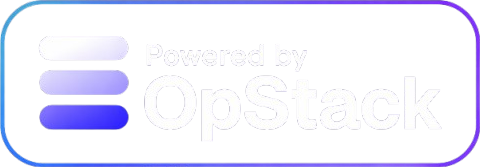
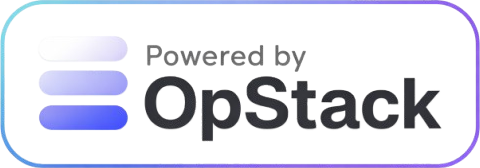
Switch to light mode with pale steel blue and muted amber

diff --git a/components/landing/ContactSection.tsx b/components/landing/ContactSection.tsx
@@ -62,7 +62,7 @@ export default function ContactSection() {
                 required
                 value={formData.name}
                 onChange={(e) => setFormData({ ...formData, name: e.target.value })}
-                className="w-full px-4 py-3 bg-track-card border-2 border-track-primary/30 text-track-foreground placeholder-track-muted-foreground focus:border-track-accent focus:outline-none transition-colors"
+                className="w-full px-4 py-3 bg-track-card border border-track-border text-track-foreground placeholder-track-muted-foreground focus:border-track-accent focus:outline-none transition-colors"
                 placeholder="Your name"
               />
             </div>
@@ -76,7 +76,7 @@ export default function ContactSection() {
                 required
                 value={formData.email}
                 onChange={(e) => setFormData({ ...formData, email: e.target.value })}
-                className="w-full px-4 py-3 bg-track-card border-2 border-track-primary/30 text-track-foreground placeholder-track-muted-foreground focus:border-track-accent focus:outline-none transition-colors"
+                className="w-full px-4 py-3 bg-track-card border border-track-border text-track-foreground placeholder-track-muted-foreground focus:border-track-accent focus:outline-none transition-colors"
                 placeholder="you@company.com"
               />
             </div>
@@ -91,7 +91,7 @@ export default function ContactSection() {
               id="company"
               value={formData.company}
               onChange={(e) => setFormData({ ...formData, company: e.target.value })}
-              className="w-full px-4 py-3 bg-track-card border-2 border-track-primary/30 text-track-foreground placeholder-track-muted-foreground focus:border-track-accent focus:outline-none transition-colors"
+              className="w-full px-4 py-3 bg-track-card border border-track-border text-track-foreground placeholder-track-muted-foreground focus:border-track-accent focus:outline-none transition-colors"
               placeholder="Your company name"
             />
           </div>
@@ -106,7 +106,7 @@ export default function ContactSection() {
               required
               value={formData.message}
               onChange={(e) => setFormData({ ...formData, message: e.target.value })}
-              className="w-full px-4 py-3 bg-track-card border-2 border-track-primary/30 text-track-foreground placeholder-track-muted-foreground focus:border-track-accent focus:outline-none transition-colors resize-none"
+              className="w-full px-4 py-3 bg-track-card border border-track-border text-track-foreground placeholder-track-muted-foreground focus:border-track-accent focus:outline-none transition-colors resize-none"
               placeholder="Tell us about your asset management needs..."
             />
           </div>
@@ -114,19 +114,19 @@ export default function ContactSection() {
           <button
             type="submit"
             disabled={status === 'loading'}
-            className="w-full px-8 py-4 bg-track-accent text-white font-semibold text-lg hover:bg-track-accent-light transition-colors disabled:opacity-50 disabled:cursor-not-allowed"
+            className="w-full px-8 py-4 bg-track-accent text-white font-semibold text-lg hover:bg-track-accent-dark transition-colors disabled:opacity-50 disabled:cursor-not-allowed"
           >
             {status === 'loading' ? 'Sending...' : 'Send Message'}
           </button>
 
           {status === 'success' && (
-            <p className="text-center text-green-400">
+            <p className="text-center text-green-600">
               Thank you for your message. We will be in touch soon.
             </p>
           )}
 
           {status === 'error' && (
-            <p className="text-center text-red-400">
+            <p className="text-center text-red-600">
               Something went wrong. Please email us directly at track@opstack.uk
             </p>
           )}
@@ -135,7 +135,7 @@ export default function ContactSection() {
         <div className="mt-12 text-center">
           <p className="text-track-muted-foreground">
             Prefer email? Contact us at{' '}
-            <a href="mailto:track@opstack.uk" className="text-track-accent hover:text-track-accent-light transition-colors">
+            <a href="mailto:track@opstack.uk" className="text-track-accent hover:text-track-accent-dark transition-colors">
               track@opstack.uk
             </a>
           </p>

diff --git a/components/landing/Navbar.tsx b/components/landing/Navbar.tsx
@@ -14,7 +14,7 @@ export default function Navbar() {
   ]
 
   return (
-    <nav className="fixed top-0 left-0 right-0 z-50 bg-track-background/95 backdrop-blur-sm border-b border-track-primary/20">
+    <nav className="fixed top-0 left-0 right-0 z-50 bg-track-background/95 backdrop-blur-sm border-b border-track-border">
       <div className="max-w-7xl mx-auto px-4 sm:px-6 lg:px-8">
         <div className="flex justify-between items-center h-16">
           <Link href="/" className="flex items-center gap-3">
@@ -40,7 +40,7 @@ export default function Navbar() {
             ))}
             <a
               href="#contact"
-              className="px-4 py-2 bg-track-accent text-white font-medium hover:bg-track-accent-light transition-colors"
+              className="px-4 py-2 bg-track-accent text-white font-medium hover:bg-track-accent-dark transition-colors"
             >
               Get Started
             </a>
@@ -62,7 +62,7 @@ export default function Navbar() {
         </div>
 
         {mobileMenuOpen && (
-          <div className="md:hidden py-4 border-t border-track-primary/20">
+          <div className="md:hidden py-4 border-t border-track-border">
             {navLinks.map((link) => (
               <a
                 key={link.name}
@@ -75,7 +75,7 @@ export default function Navbar() {
             ))}
             <a
               href="#contact"
-              className="block mt-4 px-4 py-2 bg-track-accent text-white font-medium text-center hover:bg-track-accent-light transition-colors"
+              className="block mt-4 px-4 py-2 bg-track-accent text-white font-medium text-center hover:bg-track-accent-dark transition-colors"
               onClick={() => setMobileMenuOpen(false)}
             >
               Get Started

diff --git a/tailwind.config.ts b/tailwind.config.ts
@@ -10,17 +10,18 @@ const config: Config = {
     extend: {
       colors: {
         track: {
-          primary: 'hsl(215, 45%, 45%)',
-          'primary-dark': 'hsl(215, 45%, 35%)',
-          'primary-light': 'hsl(215, 45%, 55%)',
-          accent: 'hsl(32, 95%, 52%)',
-          'accent-light': 'hsl(32, 95%, 62%)',
-          background: 'hsl(220, 40%, 8%)',
-          'background-light': 'hsl(220, 35%, 14%)',
-          card: 'hsl(220, 35%, 14%)',
-          foreground: 'hsl(0, 0%, 98%)',
-          'muted-foreground': 'hsl(215, 20%, 60%)',
-          muted: 'hsl(220, 30%, 18%)',
+          primary: 'hsl(215, 45%, 55%)',
+          'primary-dark': 'hsl(215, 50%, 45%)',
+          'primary-light': 'hsl(215, 40%, 65%)',
+          accent: 'hsl(38, 75%, 50%)',
+          'accent-dark': 'hsl(38, 80%, 42%)',
+          background: 'hsl(0, 0%, 100%)',
+          'background-alt': 'hsl(220, 20%, 97%)',
+          card: 'hsl(0, 0%, 100%)',
+          foreground: 'hsl(220, 25%, 18%)',
+          'muted-foreground': 'hsl(220, 15%, 50%)',
+          muted: 'hsl(220, 15%, 92%)',
+          border: 'hsl(220, 20%, 88%)',
         },
       },
       fontFamily: {

diff --git a/components/landing/UseCasesSection.tsx b/components/landing/UseCasesSection.tsx
@@ -19,7 +19,7 @@ const useCases = [
 
 export default function UseCasesSection() {
   return (
-    <section id="use-cases" className="py-20 px-4 sm:px-6 lg:px-8 bg-track-background-light">
+    <section id="use-cases" className="py-20 px-4 sm:px-6 lg:px-8 bg-track-background-alt">
       <div className="max-w-7xl mx-auto">
         <div className="text-center mb-16">
           <h2 className="text-3xl sm:text-4xl font-bold text-track-foreground mb-4">
@@ -34,8 +34,7 @@ export default function UseCasesSection() {
           {useCases.map((useCase) => (
             <div
               key={useCase.title}
-              className="group relative p-8 border-2 bg-track-card transition-all duration-300 hover:translate-y-[-4px]"
-              style={{ borderColor: 'hsl(215 45% 45% / 0.35)' }}
+              className="group relative p-8 border bg-track-card transition-all duration-300 hover:translate-y-[-4px] hover:shadow-lg border-track-border"
             >
               <div className="absolute left-0 top-0 bottom-0 w-1 bg-track-primary/40 group-hover:bg-track-accent transition-colors" />
 

diff --git a/components/landing/Footer.tsx b/components/landing/Footer.tsx
@@ -3,7 +3,7 @@ import Link from 'next/link'
 
 export default function Footer() {
   return (
-    <footer className="py-12 px-4 sm:px-6 lg:px-8 bg-track-muted border-t border-track-primary/20">
+    <footer className="py-12 px-4 sm:px-6 lg:px-8 bg-track-background-alt border-t border-track-border">
       <div className="max-w-7xl mx-auto">
         <div className="flex flex-col md:flex-row justify-between items-center gap-8">
           <div className="flex items-center gap-3">
@@ -55,7 +55,7 @@ export default function Footer() {
           </Link>
         </div>
 
-        <div className="mt-8 pt-8 border-t border-track-primary/20 text-center">
+        <div className="mt-8 pt-8 border-t border-track-border text-center">
           <p className="text-sm text-track-muted-foreground">
             {new Date().getFullYear()} Track. Part of the OpStack family.
           </p>

diff --git a/components/landing/FeaturesSection.tsx b/components/landing/FeaturesSection.tsx
@@ -73,8 +73,7 @@ export default function FeaturesSection() {
           {features.map((feature) => (
             <div
               key={feature.title}
-              className="group relative p-8 border-2 bg-track-card transition-all duration-300 hover:translate-y-[-4px]"
-              style={{ borderColor: 'hsl(215 45% 45% / 0.35)' }}
+              className="group relative p-8 border bg-track-card transition-all duration-300 hover:translate-y-[-4px] hover:shadow-lg border-track-border"
             >
               <div className="absolute left-0 top-0 bottom-0 w-1 bg-track-primary/40 group-hover:bg-track-accent transition-colors" />
 

diff --git a/components/landing/HeroSection.tsx b/components/landing/HeroSection.tsx
@@ -29,7 +29,7 @@ export default function HeroSection() {
           <div className="flex flex-col sm:flex-row gap-4 justify-center">
             <a
               href="#contact"
-              className="px-8 py-4 bg-track-accent text-white font-semibold text-lg hover:bg-track-accent-light transition-colors"
+              className="px-8 py-4 bg-track-accent text-white font-semibold text-lg hover:bg-track-accent-dark transition-colors"
             >
               Request a Demo
             </a>
